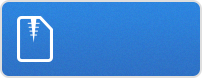
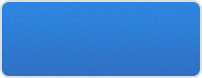
added side buttons

Changed region(s): [[0.0594, 0.2051, 0.2673, 0.7949]]

diff --git a/index.html b/index.html
@@ -101,7 +101,7 @@
           </p>
           <p>Now cin will behave the same as if you redirected the contents of a text file to a program, as seen above
           </p>
-          <p><b>REMEMBER TO COMMENT THIS CODE OUT OR DELETEIT BEFORE YOU SUBMIT OR TEST ON CAEN, INPUT WILL NOT WORK IF THIS CODE IS STILL THERE</b>
+          <p><b>REMEMBER TO COMMENT THIS CODE OUT OR DELETE IT BEFORE YOU SUBMIT OR TEST ON CAEN, INPUT WILL NOT WORK IF THIS CODE IS STILL THERE</b>
           </p>
           <h2 id="4">Input and Output files - fstream</h2>
             <p>Yolo ipsum atque ullam but seeing my family have it all harum delectus quo. 
@@ -176,8 +176,13 @@
         <aside id="sidebar">
           <p>Last Updated for Xcode 4.5.2</p>
 
-          <p class="side-header">Some other great C++ and UMich CS Links</p>
+          <p class="side-header">Some other great C++ and UMich CS Links:</p>
+          <p><a class="button" href="#" target="_blank">A cleaner solution for handling command line arguments.</a></p> 
+          <p><a class="button" href="#" target="_blank">Setting up private git repos on CAEN.</a></p> 
+          <p><a class="button" href="http://shoulditake381.com" target="_blank">Debating whether to take EECS 381?</a></p> 
 
+          <br/><br/>
+          <p>Created by <a href="http://jessedaugherty.com" target="_blank">Jesse Daugherty</a> and <a href="http://twitter.com/CEWendel" target="_blank">Chris Wendel</a></p>
         </aside>
       </div>
     </div>

diff --git a/stylesheets/stylesheet.css b/stylesheets/stylesheet.css
@@ -115,7 +115,7 @@ aside#sidebar {
   min-height: 504px;
   float: right;
   background: transparent url(../images/sidebar-bg.jpg) 0 0 no-repeat;
-  font-size: 12px;
+  font-size: 14px;
   line-height: 1.3;
 }
 
@@ -128,16 +128,16 @@ aside#sidebar p.repo-owner a {
   margin-bottom: 40px;
 }
 
-a.button {
+/*a.button {
   width: 134px;
   height: 58px;
   line-height: 1.2;
   font-size: 23px;
   color: #fff;
   padding-left: 68px;
-  padding-top: 22px;
+  padding-top: 15px;
   font-family: 'Helvetica Neue', Helvetica, Arial, serif; 
-}
+}*/
 a.button small {
   display: block;
   font-size: 11px;
@@ -149,12 +149,27 @@ header a.button {
   background: transparent url(../images/github-button.png) 0 0 no-repeat;
 }
 aside a.button {
-  width: 138px;
-  padding-left: 64px;
+  width: 190px;
+  min-width: 190px;
+  padding:15px;
   display: block;
-  background: transparent url(../images/download-button.png) 0 0 no-repeat;
+  background-color: #2e7bcf;
+    color: #fff;
+  border-radius: 10px;
+  -moz-border-radius:10px;
+  -webkit-border-radius:10px;
   margin-bottom: 20px;
-  font-size: 21px;
+  font-size: 15px;
+}
+aside a.button:hover {
+  
+  background-color: #3985d8;
+    color: #eee;
+  border-radius: 10px;
+  -moz-border-radius:10px;
+  -webkit-border-radius:10px;
+  margin-bottom: 20px;
+  font-size: 15px;
 }
 
 code, pre {
